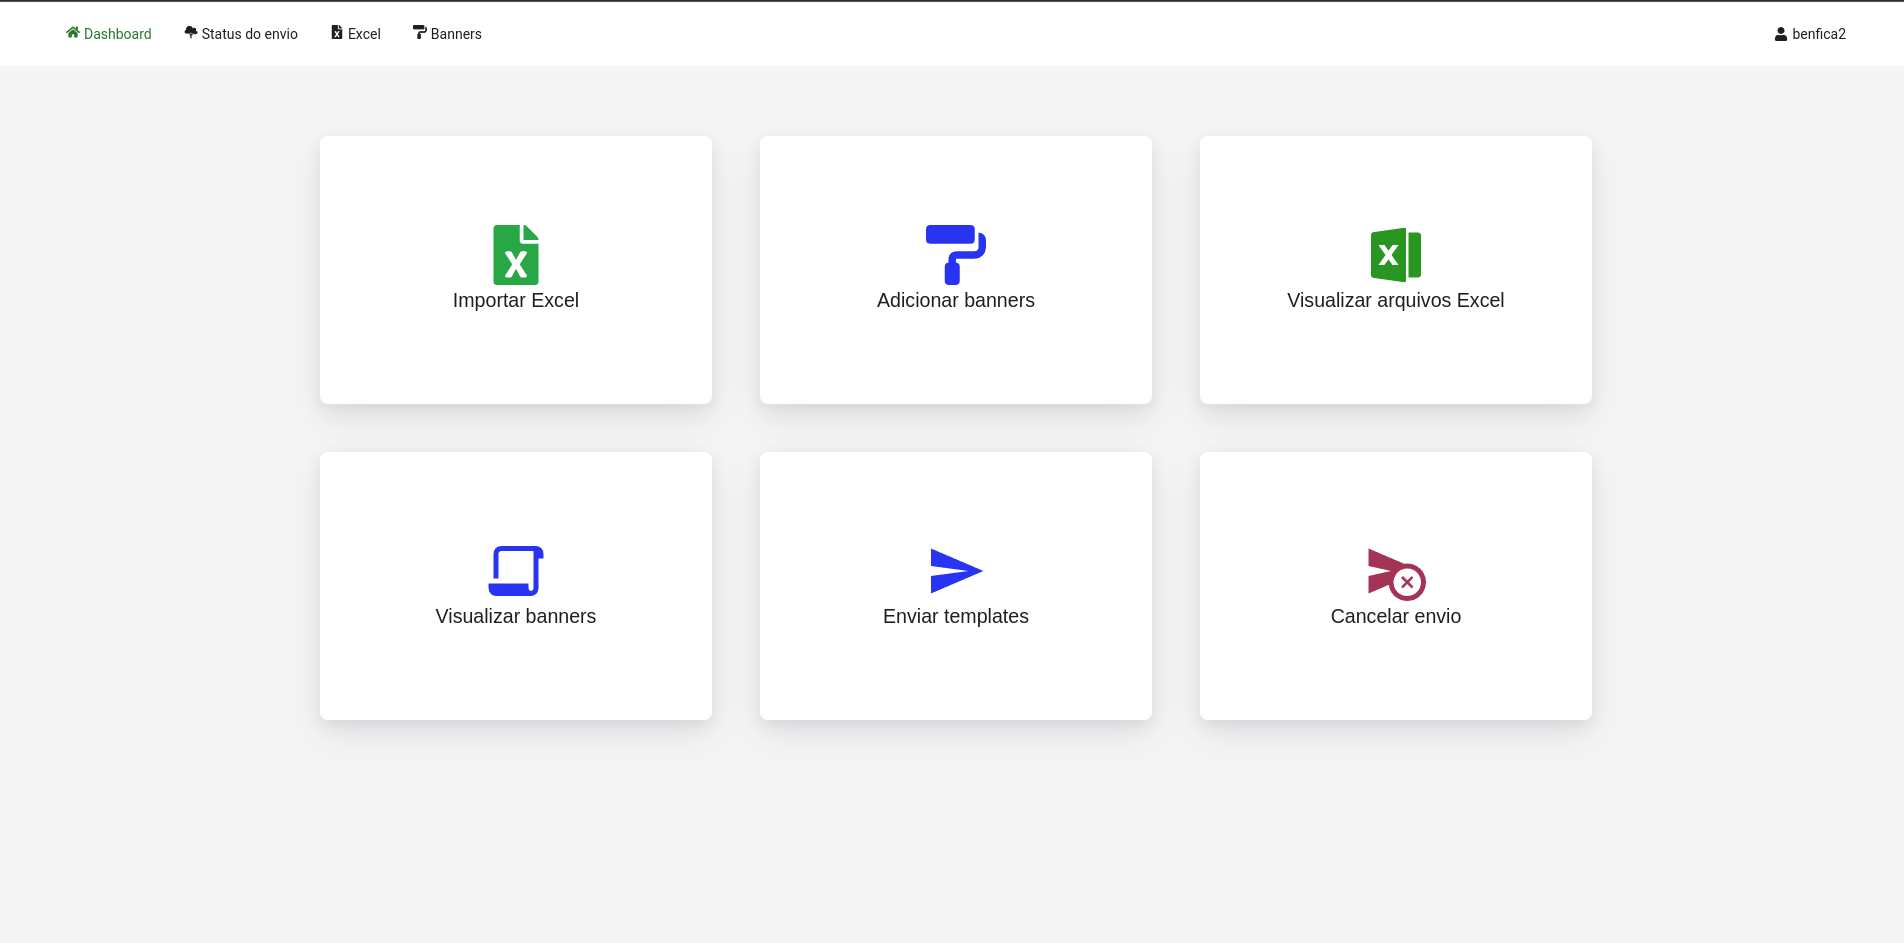
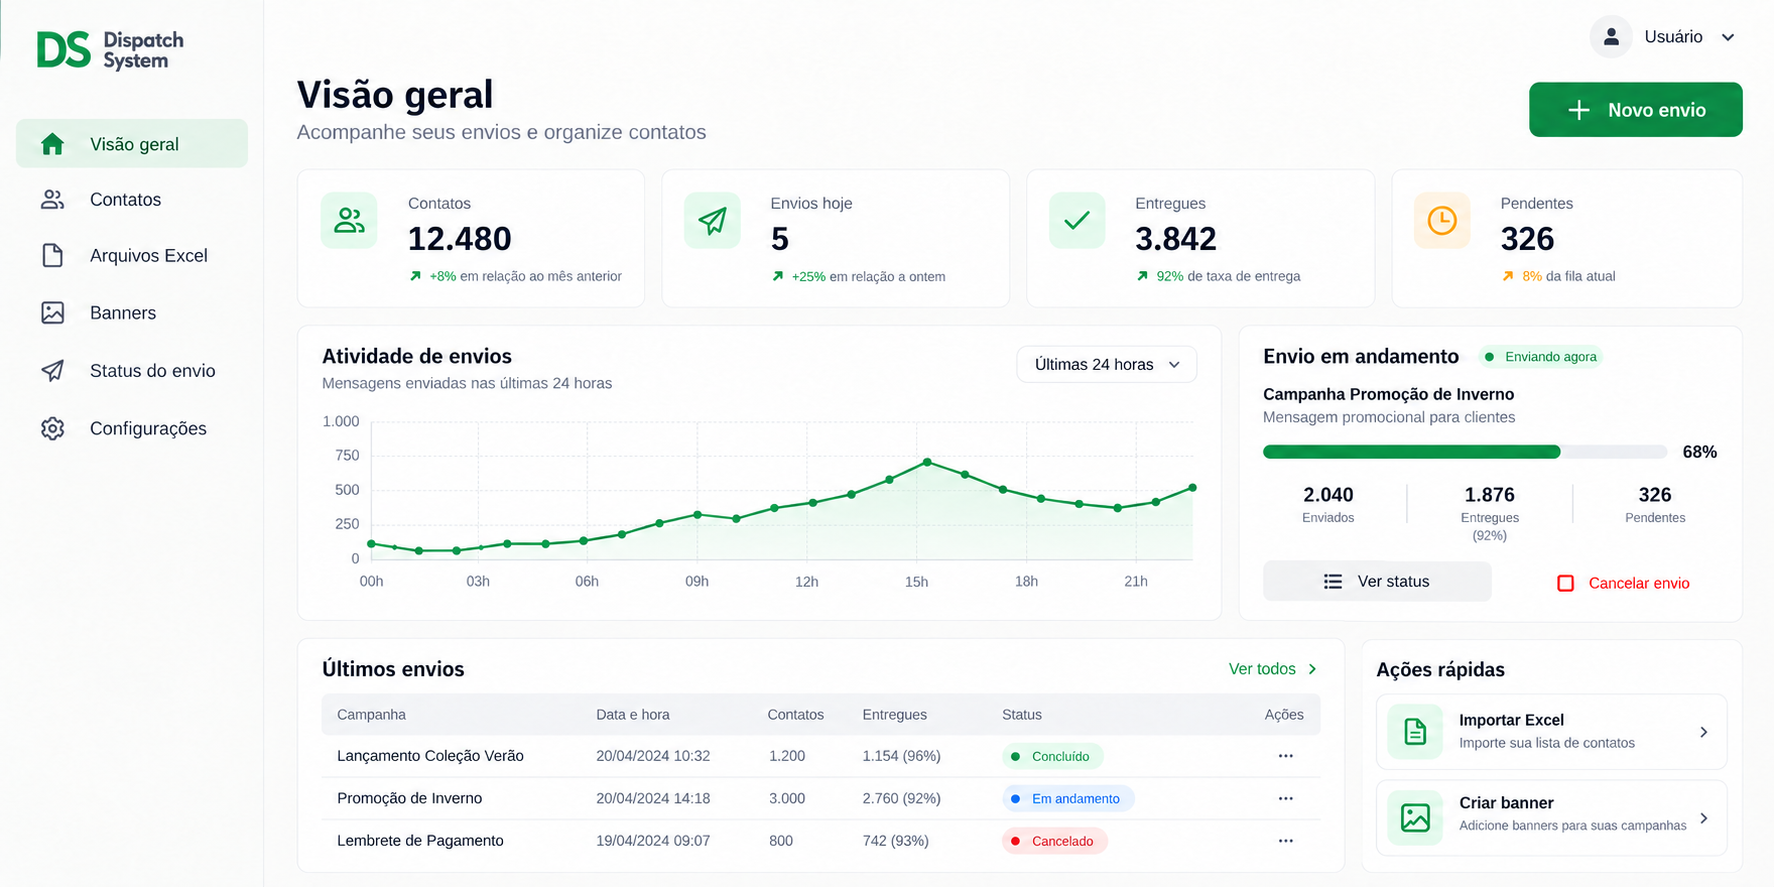
feat: refresh Dispatch and OSC project visuals

diff --git a/src/assets/images/projects/dispatch-system.prompt.md b/src/assets/images/projects/dispatch-system.prompt.md
@@ -1,0 +1,5 @@
+# Dispatch System — conceito visual
+
+Imagem gerada em 2026-10-26 a partir da captura anterior e da leitura do projeto `whatsappQR/front`. É uma proposta de interface para o portfólio, não uma captura da aplicação publicada. Os números e as campanhas são fictícios.
+
+O visual reorganiza o fluxo real do produto: importar contatos por Excel, gerenciar banners/templates, enviar, consultar o status e cancelar envios. Usa uma navegação lateral compacta, resumos, atividade de envio, lista de campanhas e ações rápidas. A direção visual privilegia fundo claro, tipografia nítida e verde discreto. Não representa a função de pausar um envio.

diff --git a/src/assets/images/projects/osc-manager.prompt.md b/src/assets/images/projects/osc-manager.prompt.md
@@ -1,0 +1,5 @@
+# OSC Manager — conceito visual
+
+Imagem gerada em 2026-10-26 a partir da captura anterior e da leitura do projeto OSC Manager. É uma proposta de interface para o portfólio, não uma captura da aplicação publicada. Os indicadores, nomes de projetos e resultados são fictícios.
+
+O visual preserva o contexto real de projetos, OSCs, alunos, cursos, questionários e análise de respostas. Reorganiza o dashboard com filtros, indicadores compactos, barras por pergunta, gráfico de distribuição e uma tabela discreta, em uma linguagem visual clara com azul, teal e tons neutros.
